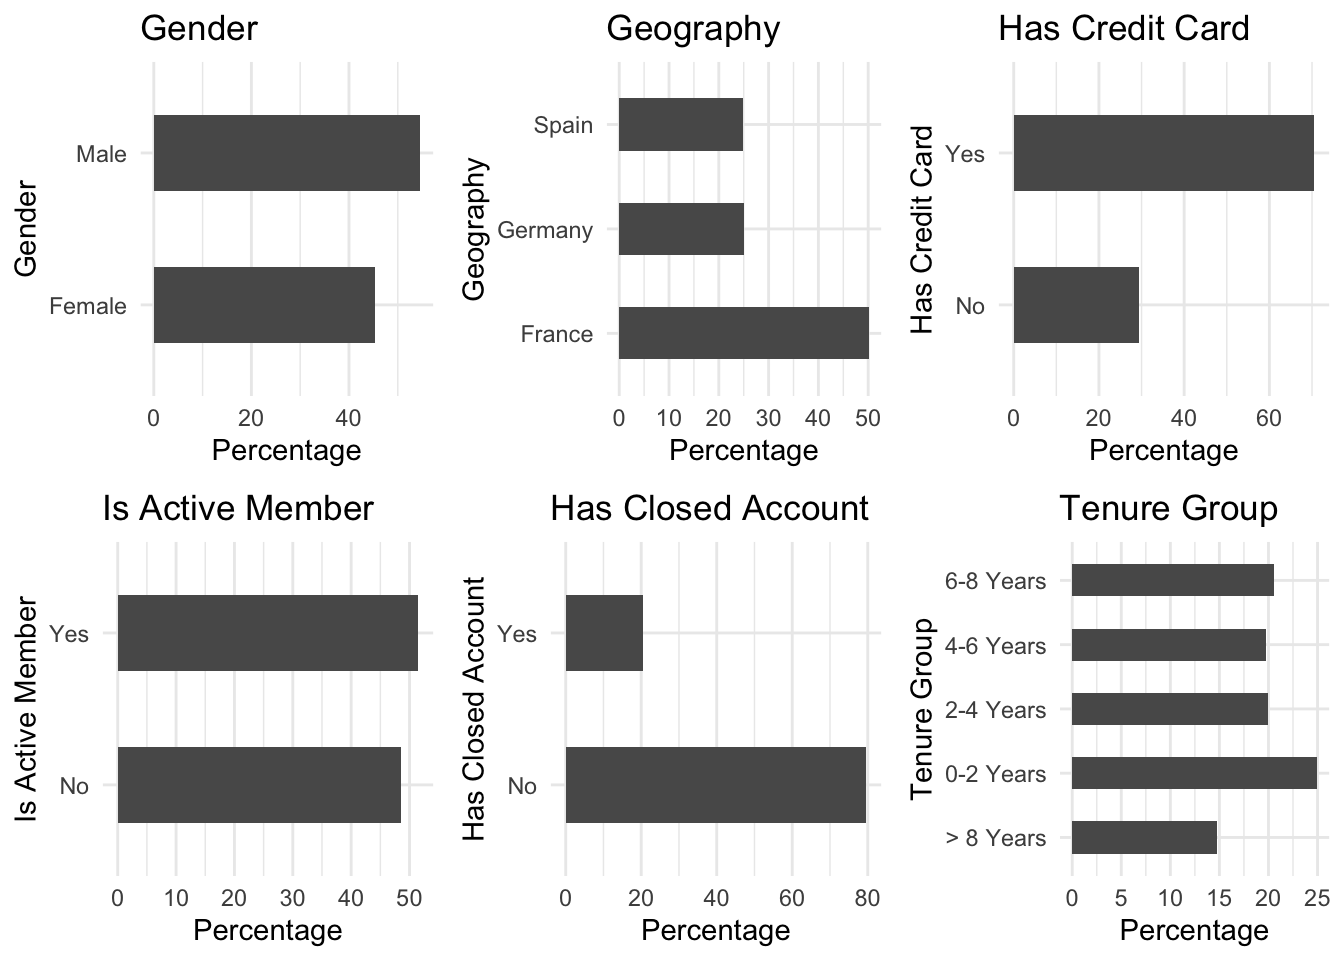
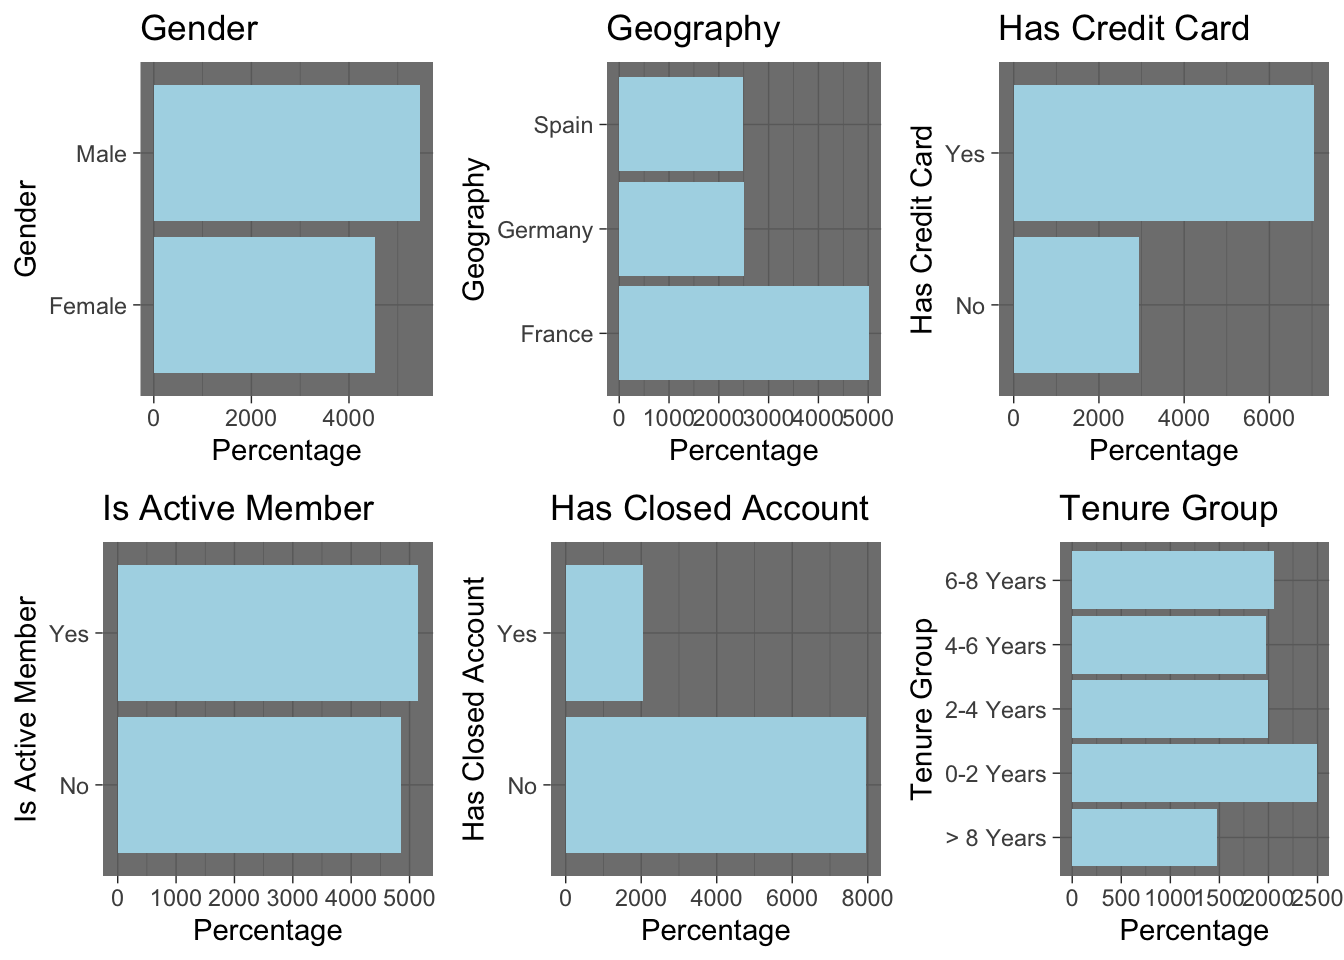
P01

diff --git a/content/post/2022-04-05-p01-group-project/index.html b/content/post/2022-04-05-p01-group-project/index.html
@@ -157,17 +157,17 @@ bank.churn$tenure_group &lt;- as.factor(bank.churn$tenure_group)</code></pre>
 <div id="bar-plots-of-categorical-variables" class="section level4">
 <h4>Bar plots of categorical variables</h4>
 <pre class="r"><code>p1 &lt;- ggplot(bank.churn, aes(x=Gender)) + ggtitle(&quot;Gender&quot;) + xlab(&quot;Gender&quot;) +
-  geom_bar(aes(y = 100*(..count..)/sum(..count..)), width = 0.5) + ylab(&quot;Percentage&quot;) + coord_flip() + theme_minimal()
+  geom_bar(aes(y = 100*(..count..)/sum(..count..)), width = 0.5) + ylab(&quot;Percentage&quot;) + coord_flip() + theme_dark() + geom_bar(fill = &quot;lightblue&quot;)
 p2 &lt;- ggplot(bank.churn, aes(x=Geography)) + ggtitle(&quot;Geography&quot;) + xlab(&quot;Geography&quot;) + 
-  geom_bar(aes(y = 100*(..count..)/sum(..count..)), width = 0.5) + ylab(&quot;Percentage&quot;) + coord_flip() + theme_minimal()
+  geom_bar(aes(y = 100*(..count..)/sum(..count..)), width = 0.5) + ylab(&quot;Percentage&quot;) + coord_flip() + theme_dark() + geom_bar(fill = &quot;lightblue&quot;)
 p3 &lt;- ggplot(bank.churn, aes(x=HasCrCard)) + ggtitle(&quot;Has Credit Card&quot;) + xlab(&quot;Has Credit Card&quot;) + 
-  geom_bar(aes(y = 100*(..count..)/sum(..count..)), width = 0.5) + ylab(&quot;Percentage&quot;) + coord_flip() + theme_minimal()
+  geom_bar(aes(y = 100*(..count..)/sum(..count..)), width = 0.5) + ylab(&quot;Percentage&quot;) + coord_flip() + theme_dark() + geom_bar(fill = &quot;lightblue&quot;)
 p4 &lt;- ggplot(bank.churn, aes(x=IsActiveMember)) + ggtitle(&quot;Is Active Member&quot;) + xlab(&quot;Is Active Member&quot;) +
-  geom_bar(aes(y = 100*(..count..)/sum(..count..)), width = 0.5) + ylab(&quot;Percentage&quot;) + coord_flip() + theme_minimal()
+  geom_bar(aes(y = 100*(..count..)/sum(..count..)), width = 0.5) + ylab(&quot;Percentage&quot;) + coord_flip() + theme_dark() + geom_bar(fill = &quot;lightblue&quot;)
 p5 &lt;- ggplot(bank.churn, aes(x=Exited)) + ggtitle(&quot;Has Closed Account&quot;) + xlab(&quot;Has Closed Account&quot;) +
-  geom_bar(aes(y = 100*(..count..)/sum(..count..)), width = 0.5) + ylab(&quot;Percentage&quot;) + coord_flip() + theme_minimal()
+  geom_bar(aes(y = 100*(..count..)/sum(..count..)), width = 0.5) + ylab(&quot;Percentage&quot;) + coord_flip() + theme_dark() + geom_bar(fill = &quot;lightblue&quot;)
 p6 &lt;- ggplot(bank.churn, aes(x=tenure_group)) + ggtitle(&quot;Tenure Group&quot;) + xlab(&quot;Tenure Group&quot;) +
-  geom_bar(aes(y = 100*(..count..)/sum(..count..)), width = 0.5) + ylab(&quot;Percentage&quot;) + coord_flip() + theme_minimal()
+  geom_bar(aes(y = 100*(..count..)/sum(..count..)), width = 0.5) + ylab(&quot;Percentage&quot;) + coord_flip() + theme_dark() + geom_bar(fill = &quot;lightblue&quot;)
 grid.arrange(p1, p2, p3, p4, p5, p6, ncol=3)</code></pre>
 <p><img src="{{< blogdown/postref >}}index_files/figure-html/unnamed-chunk-13-1.png" width="672" /></p>
 </div>
